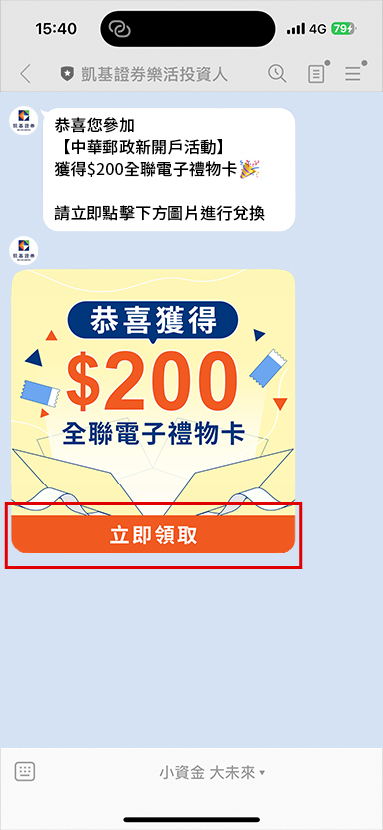
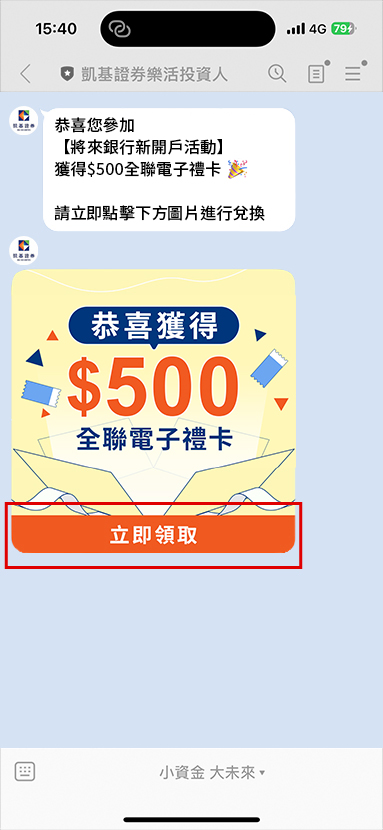
Add files via upload

diff --git a/index/index.html b/index/index.html
@@ -286,7 +286,7 @@
                 <div class="container">
                     <div class="text-center" data-aos="fade-up">
                         <h1 title="主要優惠內容"><span>將來銀行用戶專屬優惠!</span></h1>
-                        <h2 title="次要優惠內容">新開凱基證券戶綁定將來銀行帳戶，成功完成交易即送$500全聯電子禮卡</h2>
+                        <h2 title="次要優惠內容">新開凱基證券戶並綁定將來銀行帳戶，成功完成交易即送$500全聯電子禮卡</h2>
                     </div>
                 </div>
             </section>
@@ -397,7 +397,8 @@
                                         <li><img src="images/check.svg" />台美股定期定額均一價</li>
                                         <li><img src="images/check.svg" />美股手續費驚喜價且無低銷</li>
                                         <li><img src="images/check.svg" />新戶美股交易再享台股手續費回饋價
-                                            <a href="#login" target="_blank">(詳情)</a>
+                                            <a href="https://chatservice.kgi.com.tw/Webhook/?q=%E6%88%91%E6%83%B3%E4%BA%86%E8%A7%A3%E5%8F%B0%E7%BE%8E%E8%82%A1%E5%84%AA%E6%83%A0"
+                                                target="_blank" id="ServiceBtn_S">(詳情)</a>
                                         </li>
                                     </ul>
 
@@ -411,7 +412,7 @@
                                     </h3>
 
                                     <ul class="cardItem-text">
-                                        <li><img src="images/check.svg" />台股門款最低100元</li>
+                                        <li><img src="images/check.svg" />台股門檻最低100元</li>
                                         <li><img src="images/check.svg" />美股門檻最低10美元</li>
                                         <li><img src="images/check.svg" />台股日日扣，買點不錯過</li>
                                     </ul>
@@ -609,7 +610,7 @@
                             <Transition name="fade">
                                 <div class="qa-list-content" v-show="qa[0]">
                                     <p>
-                                        將來銀行用戶，並新開凱基證券帳戶且成功完成首筆交易。
+                                        將來銀行用戶，透過指定連結並新開凱基證券帳戶且成功完成首筆交易。
                                     </p>
                                 </div>
                             </Transition>
@@ -664,26 +665,29 @@
                     <ol v-if="notice" class="notice">
                         <ul>
                             <li>
-                                <strong>1. </strong>活動期間：2026/8/1起至2026/10/31
+                                <strong>1. </strong>活動期間：即日起至2026/10/31
                             </li>
                             <li>
-                                <strong>2.
+                                <strong>2. </strong>(例如：於2025/1/5銷戶、2026/8/10重新開戶完成，即符合新戶資格)
+                            </li>
+                            <li>
+                                <strong>3.
                                 </strong>適用對象：本活動僅限於活動期間內透過指定連結新開立凱基證券帳戶之本國自然人(設籍台灣、澎湖、金門、馬祖，不含98員工戶，不含法人戶)參與，並將將來銀行帳戶設定為e財庫出入金帳戶。「新戶」係指從未於凱基證券開過台股及複委託帳戶或銷戶超過12個月再重新完成開戶者，開戶完成日以本公司審核完成通知日為準，非申請資料送出日。(例如：於2025/1/5銷戶、2026/3/10重新開戶完成，即符合新戶資格)。
                             </li>
                             <li>
-                                <strong>3. </strong>「完成首筆交易」不限單筆或定期定額、不限台/美股、不限金額、標的，但信託平台交易不適用。
+                                <strong>4. </strong>「完成首筆交易」不限單筆或定期定額、不限台/美股、不限金額、標的，但信託平台交易不適用。
                             </li>
                             <li>
-                                <strong>4. </strong>採登錄制，客戶須登錄方符合活動資格，活動期間僅需登錄一次且不可更改。
+                                <strong>5. </strong>採登錄制，客戶須登錄方符合活動資格，活動期間僅需登錄一次且不可更改。
                             </li>
                             <li>
-                                <strong>5.</strong>本活動不與其他開戶優惠活動併用，參加者如有資格不符、違反本活動規定事項、活動期間內先銷戶再開戶、開戶後又銷戶或違約交割者，本公司保有取消活動優惠之權利。
+                                <strong>6.</strong>本活動不與其他開戶優惠活動併用，參加者如有資格不符、違反本活動規定事項、活動期間內先銷戶再開戶、開戶後又銷戶或違約交割者，本公司保有取消活動優惠之權利。
                             </li>
                             <li>
-                                <strong>6.</strong>活動贈品將透過「凱基證券樂活投資人」LINE官方帳號發送，客戶須登錄及綁定「凱基證券樂活投資人」LINE官方帳號，始符合開戶禮獲獎資格。本公司將於2026/12/15前檢核符合獲獎資格客戶，透過「凱基證券樂活投資人」LINE官方帳號向符合資格客戶寄發獲獎通知，得獎者需於2026/11/15前綁定「凱基證券樂活投資人」LINE官方帳號，且於收到獲獎通知前不可封鎖或解除「凱基證券樂活投資人」LINE官方帳號好友，始可收到凱基證券獲獎通知，若因封鎖或解除致無法收到得獎訊息而無法獲得獎勵，恕不補發且不得要求轉換或轉讓獎項。
+                                <strong>7.</strong>活動贈品將透過「凱基證券樂活投資人」LINE官方帳號發送，客戶須登錄及綁定「凱基證券樂活投資人」LINE官方帳號，始符合開戶禮獲獎資格。本公司將於2026/12/15前檢核符合獲獎資格客戶，透過「凱基證券樂活投資人」LINE官方帳號向符合資格客戶寄發獲獎通知，得獎者需於2026/11/15前綁定「凱基證券樂活投資人」LINE官方帳號，且於收到獲獎通知前不可封鎖或解除「凱基證券樂活投資人」LINE官方帳號好友，始可收到凱基證券獲獎通知，若因封鎖或解除致無法收到得獎訊息而無法獲得獎勵，恕不補發且不得要求轉換或轉讓獎項。
                             </li>
                             <li>
-                                <strong>7.</strong>活動贈品為「全聯電子禮卡」(好禮即享券)，係由新加坡商宜睿智慧股份有限公司發行，使用方式請按照券面網頁說明及新加坡商宜睿智慧股份有限公司公告規範使用，如有使用方式及相關問題，請洽即享券客服。本券為不記名，請自行妥善保管，本券不再補發。
+                                <strong>8.</strong>活動贈品為「全聯電子禮卡」(好禮即享券)，係由新加坡商宜睿智慧股份有限公司發行，使用方式請按照券面網頁說明及新加坡商宜睿智慧股份有限公司公告規範使用，如有使用方式及相關問題，請洽即享券客服。本券為不記名，請自行妥善保管，本券不再補發。
                             </li>
                             <ol>
                                 <ul>

diff --git a/index/css/style.css b/index/css/style.css
@@ -6758,12 +6758,12 @@ textarea {
     }
   }
 }
-.slick-slider .slick-track,
 .slick-slider .slick-list {
-  transform: translate3d(0, 0, 0);
-  display: flex;
-  align-items: center;
-  justify-content: center;
+  display: block;
+}
+
+.slick-slider .slick-track {
+  display: block;
 }
 
 .slick-list {
